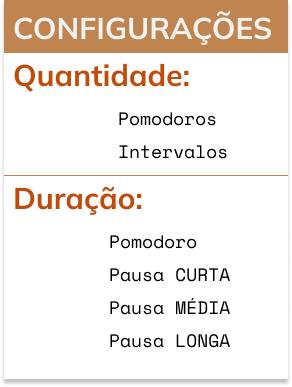
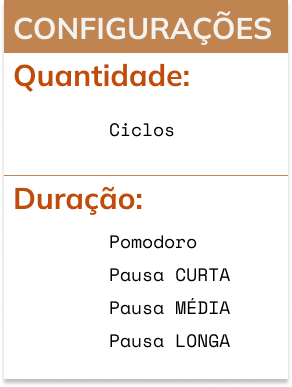
update

Changed region(s): [[0.3699, 0.2791, 0.7705, 0.4341]]

diff --git a/core/funcoes_pomodoro.py b/core/funcoes_pomodoro.py
@@ -1,19 +1,24 @@
 from tkinter import *
+from tkinter import messagebox
 from turtledemo.nim import randomrow
 
 from utils import colors, fonts
 from PIL import ImageTk, Image
 
 import time
-import os
+from playsound import playsound
 
-v_pomodoro = 4
-v_intervalos = 4
+numero_ciclos = 0
+v_ciclos = 4
 t_pomodoro = 25
+t_pausa = 5
 t_pausaC = 5
 t_pausaM = 10
 t_pausaL = 15
 
+def create_string_var():
+    global v_ciclos
+    v_ciclos = StringVar()
 
 def conversao(t):
     # de min para segundos:
@@ -26,17 +31,16 @@ janela_aberta = False
 janela_config = None
 
 
-def salvar_inputs(qntd_pomodoros, qtnd_intervalos, duracao_pomodoro, duracao_pausaC, duracao_pausaM, duracao_pausaL,
+def salvar_inputs(qntd_ciclos, duracao_pomodoro, duracao_pausaC, duracao_pausaM, duracao_pausaL,
                   janela):
-    global v_pomodoro, v_intervalos, t_pomodoro, t_pausaC, t_pausaM, t_pausaL
+    global v_ciclos, t_pomodoro, t_pausaC, t_pausaM, t_pausaL
 
-    v_pomodoro = int( qntd_pomodoros.get() )
-    v_intervalos = int( qtnd_intervalos.get() )
+    v_ciclos.set(str(qntd_ciclos.get()))
     t_pomodoro = int( duracao_pomodoro.get() )
     t_pausaC = int( duracao_pausaC.get() )
     t_pausaM = int( duracao_pausaM.get() )
     t_pausaL = int( duracao_pausaL.get() )
-    print( v_pomodoro )
+    print( v_ciclos )
 
 
 def abrir_janela():
@@ -61,14 +65,10 @@ def abrir_janela():
 
     # os inputs da janela config --------------------------------------------------------------------------------------------
 
-    qntd_pomodoros_var = StringVar()
-    qntd_pomodoros = Entry( janela_config, textvariable=qntd_pomodoros_var, width=5, justify="center", relief="sunken" )
-    qntd_pomodoros.place( x=62, y=142 )
+    qntd_ciclos_var = StringVar()
+    qntd_ciclos = Entry( janela_config, textvariable=qntd_ciclos_var, width=5, justify="center", relief="sunken" )
+    qntd_ciclos.place( x=62, y=152 )
 
-    qntd_intervalos_var = StringVar()
-    qntd_intervalos = Entry( janela_config, textvariable=qntd_intervalos_var, width=5, justify="center",
-                             relief="sunken" )
-    qntd_intervalos.place( x=62, y=175 )
 
     duracao_pomodoro_var = StringVar()
     duracao_pomodoro = Entry( janela_config, textvariable=duracao_pomodoro_var, width=5, justify="center",
@@ -91,7 +91,7 @@ def abrir_janela():
     botao_salvar = Button( janela_config, text=" SALVAR ", relief="flat", bg=colors.COR_LARANJA_CLARO,
                            font=fonts.fonte_botao,
                            fg=colors.COR_BRANCA,
-                           command=lambda: salvar_inputs( qntd_pomodoros, qntd_intervalos, duracao_pomodoro,
+                           command=lambda: salvar_inputs( qntd_ciclos, duracao_pomodoro,
                                                           duracao_pausaC, duracao_pausaM, duracao_pausaL,
                                                           janela_config ) )
     botao_salvar.place( x=109, y=420 )
@@ -111,26 +111,32 @@ def fechar_janela():
 
 ################################################################################################
 
-def botao_pausa_click(p):
-    if p == "pc_click":
-        p = conversao( t_pausaC )
-    elif p == "pm_click":
-        p = conversao( t_pausaM )
-    elif p == "pl_click":
-        p = conversao( t_pausaL )
+def work_break(timer):
+    minutes, seconds = divmod(timer, 60)
+    min.set(f"{minutes:02d}")
+    sec.set(f"{seconds:02d}")
+    update()
+    time.sleep(1)
 
+def work():
+    timer = conversao(t_pomodoro)
+    while timer >= 0:
+        work_break(timer)
+        if timer == 0:
+            #terminou o foco, toca musica e troca o temporizador para pausa
+            playsound("sound.ogg")
+            messagebox.showinfo("Muito bem!", "Partiu dar uma pausa? \n Clique no botão de intervalo!")
+        timer -= 1
 
-    temporizador( p, label= "PAUSA" )
-    os.system( "cls" )  # clear do windows
+def break_():
+    timer = conversao(t_pausa)
+    while timer >= 0:
+        work_break(timer)
+        if timer == 0:
+            #terminou a pausa, toca musica e troca o temporizador para foco
+            playsound("sound.ogg")
+            messagebox.showinfo("Simbora!", "Bora voltar pro foco? \n Clique no botão de foco!")
+        timer -= 1
 
-
-def pomodoro(t_pomodoro):
-    f = conversao( t_pomodoro )
-    temporizador( f, "FOCO" )
-    os.system( "cls" )  # clear do windows
-
-
-def temporizador(tempo, label):
-    pass
 
 # pomodoro(foco, pausa)

diff --git a/view/ToDoList.py b/view/ToDoList.py
@@ -32,7 +32,7 @@ class InterfaceToDoList:
         self.janela.title("To-Do List")
         center_window(self.janela, self.width, self.height)
         self.janela.config(background=colors.COR_BRANCA)
-        self.janela.resizable(width=FALSE, height=FALSE)
+        #self.janela.resizable(width=FALSE, height=FALSE)
 
         self.frame_top = Frame(self.janela, width=1280, height=125, bg=colors.COR_BRANCA, relief=SOLID)
         self.frame_top.pack(padx=0, pady=0)
